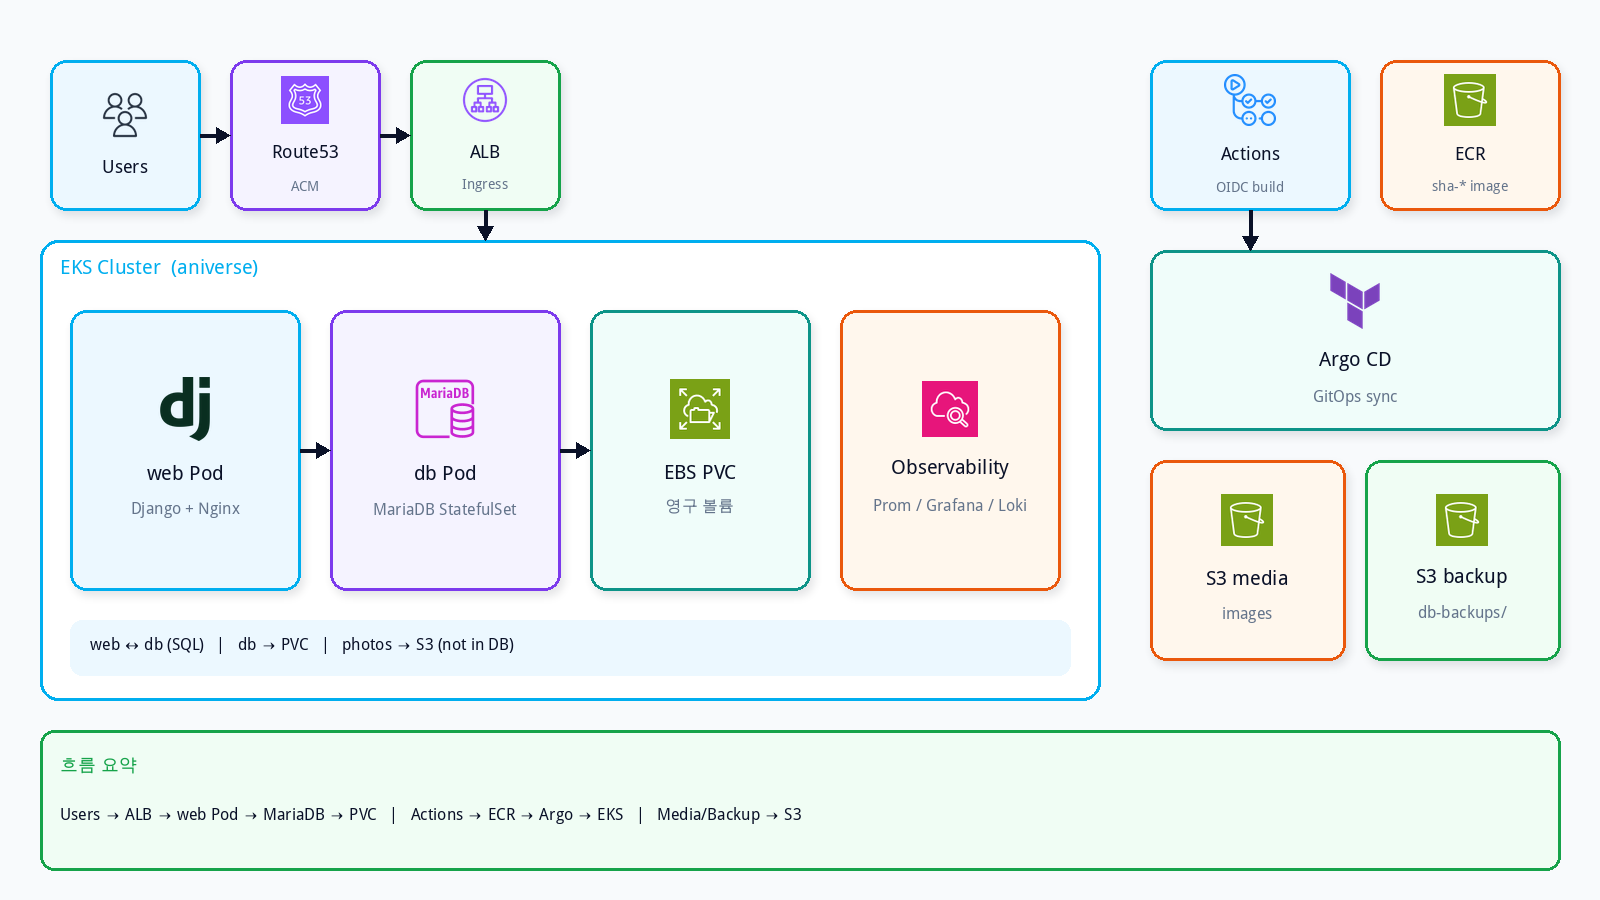
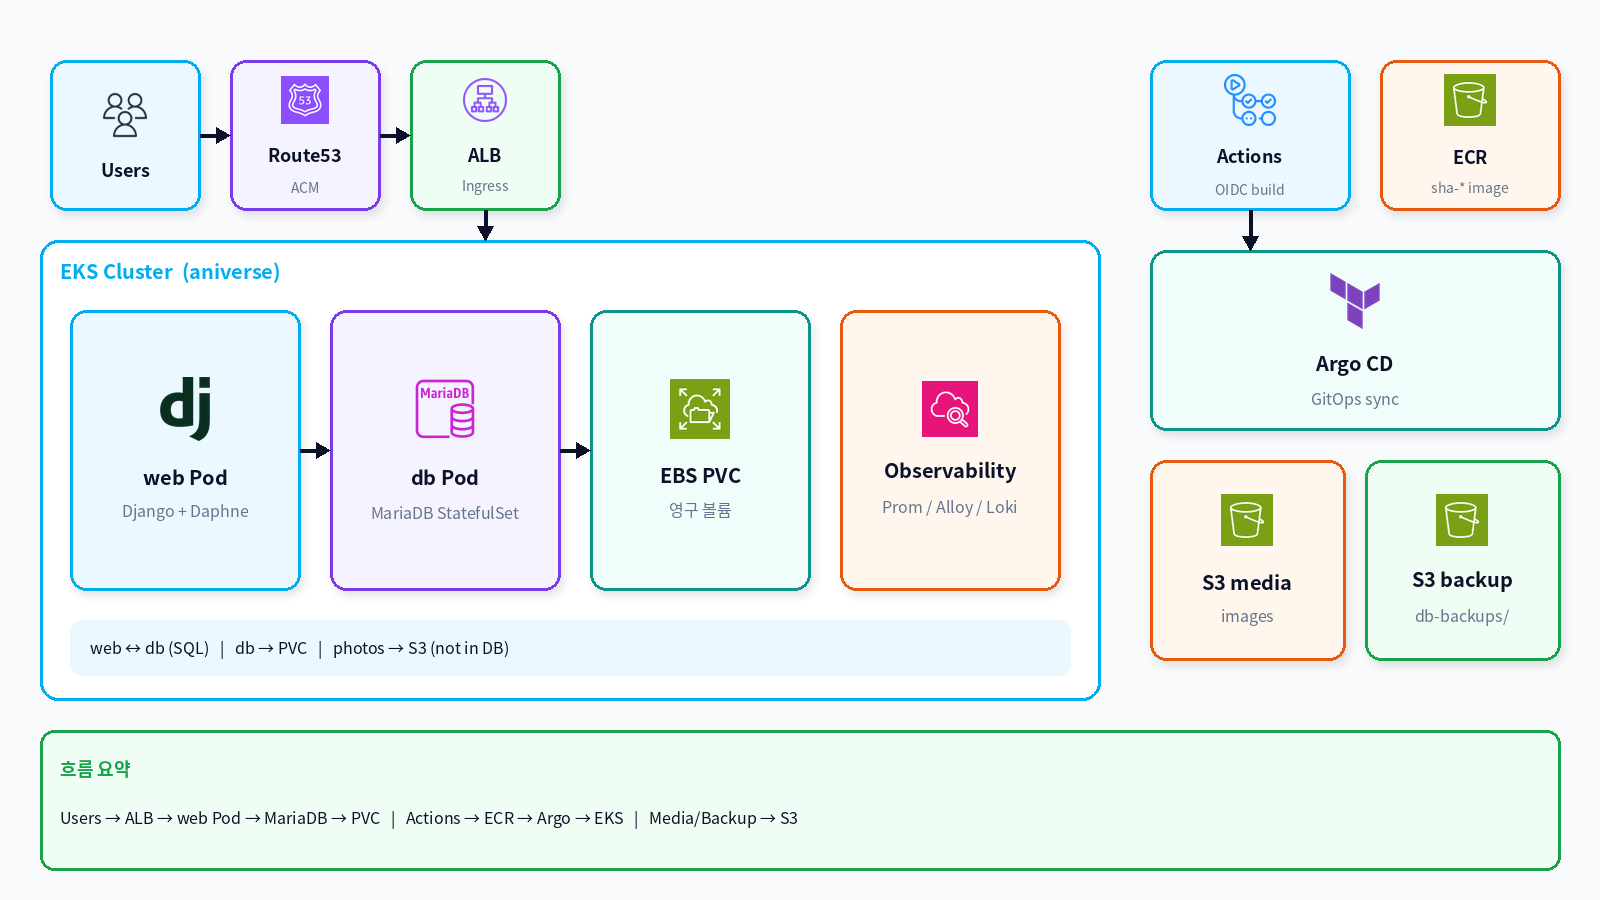
docs(presentation): align V2 slides with the running stack
V2 목표·정의·구성도·검증에서 Nginx와 Grafana를 빼고, 백업 표기는 mariadb-dump로 맞춘다.

diff --git a/docs/presentation/make_aniverse_v1v2_ppt.py b/docs/presentation/make_aniverse_v1v2_ppt.py
@@ -256,12 +256,12 @@ def slide_v1_to_v2(prs):
         ("ASG만으로 늘렸다 줄이기", "스케일이 인스턴스 단위라, 필요할 때만 줄이기 어렵고 상시 용량으로 비용이 낭비될 수 있었습니다."),
     ]
     mid = [
-        ("관측을 한곳에", "Prom/Grafana·Loki로 메트릭·로그를 모아 클러스터·앱 상태를 한눈에 봅니다."),
+        ("관측을 한곳에", "Prom·Alloy·Loki로 메트릭·로그를 모아 클러스터·앱 상태를 한눈에 봅니다."),
         ("변경하면 즉시 배포", "이미지 빌드 + GitOps(Argo)로 수정이 Synced 상태로 서비스에 반영됩니다."),
         ("필요한 만큼만 스케일", "노드·파드 단위로 스케일을 나누고 start/stop으로 미사용 비용을 줄입니다."),
     ]
     right = [
-        ("관측 스택", "Prometheus · Grafana · Loki를 기본 구성에 두고, Alert/Tempo로 확장합니다."),
+        ("관측 스택", "Prometheus · Alloy · Loki를 기본 구성에 두고, Alert/Tempo로 확장합니다."),
         ("Actions → ECR → Argo", "sha-* 태그 bump 후 Argo sync로 코드/차트 변경이 선언적으로 반영됩니다."),
         ("EKS + DB Pod", "ASG 인스턴스 스케일 대신 EKS 노드/파드 스케일과 PVC 기반 DB로 낭비를 줄입니다."),
     ]
@@ -292,9 +292,9 @@ def slide_v2_def(prs):
     set_text(label.text_frame, "주요 기능", 20, True, BLACK)
     feats = [
         (BLUE, "ALB Ingress · HTTPS", "ACM ISSUED 후 Ingress ALB + Route53으로 외부 진입을 구성합니다."),
-        (GREEN, "EKS web / db Pod", "Django+Nginx Deployment와 MariaDB StatefulSet+PVC로 앱·DB를 운영합니다."),
+        (GREEN, "EKS web / db Pod", "Django+Daphne Deployment와 MariaDB StatefulSet+PVC로 앱·DB를 운영합니다."),
         (ORANGE, "Actions → ECR → Argo", "OIDC 빌드, sha-* 이미지, values bump 후 Argo sync로 배포합니다."),
-        (PURPLE, "백업 · 관측", "restore Job / CronJob→S3, Prom·Grafana·Loki로 운영 가시성을 확보합니다."),
+        (PURPLE, "백업 · 관측", "restore Job / CronJob→S3, Prom·Alloy·Loki로 운영 가시성을 확보합니다."),
     ]
     for i, (color, title, body) in enumerate(feats):
         col, row = i % 2, i // 2
@@ -375,7 +375,7 @@ def slide_verify(prs):
         ("DB 시드", "restore Job 후 목록 UI에 데이터", "minTables + seed_rows", "충족"),
         ("GitOps", "image.tag bump → Argo Synced", "Actions 로그 + Argo UI", "충족"),
         ("미디어", "destroy 후 Sync media 재업로드", "S3 media/ 확인", "충족"),
-        ("관측", "Prom/Grafana 대시보드 조회", "클러스터 메트릭", "구성"),
+        ("관측", "Prom·Alloy·Loki 조회", "클러스터 메트릭·로그", "구성"),
         ("알림/트레이싱", "AlertManager · Tempo", "다음 단계", "예정"),
     ]
     for i, (t, check, method, result) in enumerate(items):

diff --git a/docs/presentation/make_hybrid_diagrams.py b/docs/presentation/make_hybrid_diagrams.py
@@ -199,10 +199,10 @@ def make_arch_v2():
     d.rounded_rectangle((40, 240, 1100, 700), radius=18, outline=CYAN, width=3)
     d.text((60, 255), "EKS Cluster  (aniverse)", font=fnt(20, True), fill=CYAN)
 
-    tile(img, 70, 310, 230, 280, "django", "web Pod", "Django + Nginx", CYAN, SOFT_BLUE, 64)
+    tile(img, 70, 310, 230, 280, "django", "web Pod", "Django + Daphne", CYAN, SOFT_BLUE, 64)
     tile(img, 330, 310, 230, 280, "rds_maria", "db Pod", "MariaDB StatefulSet", PURPLE, SOFT_PURPLE, 64)
     tile(img, 590, 310, 220, 280, "efs", "EBS PVC", "영구 볼륨", TEAL, SOFT_TEAL, 60)
-    tile(img, 840, 310, 220, 280, "cloudwatch", "Observability", "Prom / Grafana / Loki", ORANGE, SOFT_ORANGE, 56)
+    tile(img, 840, 310, 220, 280, "cloudwatch", "Observability", "Prom / Alloy / Loki", ORANGE, SOFT_ORANGE, 56)
 
     soft_card(img, (70, 620, 1070, 675), r=12, fill=SOFT_BLUE, shadow=False)
     d = ImageDraw.Draw(img)
@@ -545,7 +545,7 @@ def make_data_flow_v2():
     d = ImageDraw.Draw(img)
     d.rounded_rectangle((820, 320, 1560, 590), radius=16, outline=ORANGE, width=3)
     d.text((840, 335), "3) 주기 백업 (CronJob)", font=fnt(22, True), fill=ORANGE)
-    tile(img, 860, 385, 185, 175, "rds_maria", "MariaDB", "mysqldump", PURPLE, WHITE, 56)
+    tile(img, 860, 385, 185, 175, "rds_maria", "MariaDB", "mariadb-dump", PURPLE, WHITE, 56)
     tile(img, 1090, 385, 185, 175, "cloudwatch", "CronJob", "schedule", TEAL, WHITE, 56)
     tile(img, 1320, 385, 195, 175, "s3", "S3", "db-backups/", ORANGE, WHITE, 56)
     d = ImageDraw.Draw(img)

diff --git a/docs/presentation/CONTENT_V1V2_working.md b/docs/presentation/CONTENT_V1V2_working.md
@@ -55,12 +55,12 @@
 3. ASG만으로 늘렸다 줄이기 — 인스턴스 단위·상시 용량 비용 낭비
 
 **V2 목표**
-1. 관측을 한곳에 — Prom/Grafana·Loki
+1. 관측을 한곳에 — Prom·Alloy·Loki
 2. 변경하면 즉시 배포 — 이미지 + GitOps(Argo) Synced
 3. 필요한 만큼만 스케일 — 노드·파드 · start/stop
 
 **V2 차별**
-1. 관측 스택 — Prom·Grafana·Loki, Alert/Tempo 확장
+1. 관측 스택 — Prom·Alloy·Loki, Alert/Tempo 확장
 2. Actions → ECR → Argo — sha-* bump + sync
 3. EKS + DB Pod — 노드/파드 스케일 + PVC
 
@@ -87,7 +87,7 @@
 | DB 시드 | restore 후 목록 UI | minTables+seed_rows | 충족 |
 | GitOps | tag bump → Synced | Actions+Argo | 충족 |
 | 미디어 | destroy 후 Sync media | S3 media/ | 충족 |
-| 관측 | 대시보드 조회 | 클러스터 메트릭 | 구성 |
+| 관측 | Prom·Alloy·Loki 조회 | 클러스터 메트릭·로그 | 구성 |
 | 알림/트레이싱 | AlertManager·Tempo | 다음 단계 | 예정 |
 
 ### 10. 기술 스택 (이미지)
@@ -102,7 +102,7 @@
 ### 11. 데이터 흐름 (이미지)
 1. 서비스: Users → ALB → web Pod → MariaDB → EBS PVC (eks-stop 시 PVC 유지)
 2. destroy 후 시드: GitHub SQL → restore Job → MariaDB
-3. 주기 백업: MariaDB → CronJob → S3 db-backups/
+3. 주기 백업: MariaDB → mariadb-dump CronJob → S3 db-backups/
 4. 미디어: web Pod → S3 media/ (DB 아님 · destroy 시 Sync media)
 
 ### 12. 향후 3UP
